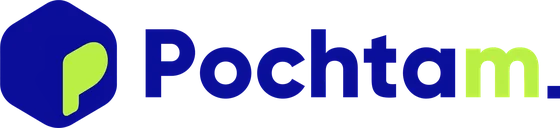
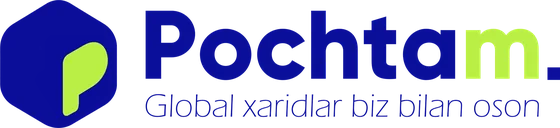
Shior tanishuv ekranidagi lokapga qaytarildi
So'z-belgi ostidagi "Global xaridlar biz bilan oson" o'z joyiga qaytdi:
belgi endi butun ustunning (so'z + shior) markaziga tenglashadi.
Shior so'z bilan bir masshtabda, oradagi masofa TAG_GAP_SHARE da — so'z
balandligiga bog'langan, ya'ni lokap qaysi o'lchamda chiqsa ham nisbat
saqlanadi.

Sarlavhadagi brand.webp avvalgidek shiorsiz: 36 px balandlikda shior
harflari 4 px ga tushib o'qilmay qoladi. Tanishuv ekranida esa lokap 240 px
kenglikda — shior ~10 px, eski lokapdagidan (~7 px) yaxshiroq o'qiladi.

Claude-Session: https://claude.ai/code/session_013YY2HjPmapjsnxB9N1S87s

Changed region(s): [[0.2429, 0.0625, 1.0, 0.9375]]

diff --git a/Xarid Yordamchisi v2.dc.html b/Xarid Yordamchisi v2.dc.html
@@ -490,7 +490,7 @@
 
   <sc-if value="{{ sOnboard }}" hint-placeholder-val="{{ false }}">
     <div style="padding-top:30px;display:flex;flex-direction:column;gap:24px">
-      <img src="icons/brand-full.webp" alt="Pochtam" width="240" height="55" style="width:240px;height:55px;object-fit:contain;align-self:flex-start">
+      <img src="icons/brand-full.webp" alt="Pochtam — global xaridlar biz bilan oson" width="240" height="55" style="width:240px;height:55px;object-fit:contain;align-self:flex-start">
       <div style="height:7px;border-radius:4px;background:repeating-linear-gradient(-45deg,#C8102E 0 9px,#F1F1F8 9px 18px,#1B4D8F 18px 27px,#F1F1F8 27px 36px)"></div>
       <div style="display:flex;flex-direction:column;gap:10px">
         <div style="font-family:'Onest','XY Flags','Noto Color Emoji',system-ui,sans-serif;font-size:22px;letter-spacing:-.025em;font-weight:800;color:#131429;line-height:1.2">Tilni tanlang</div>

diff --git a/index.html b/index.html
@@ -491,7 +491,7 @@
 
   <sc-if value="{{ sOnboard }}" hint-placeholder-val="{{ false }}">
     <div style="padding-top:30px;display:flex;flex-direction:column;gap:24px">
-      <img src="icons/brand-full.webp" alt="Pochtam" width="240" height="55" style="width:240px;height:55px;object-fit:contain;align-self:flex-start">
+      <img src="icons/brand-full.webp" alt="Pochtam — global xaridlar biz bilan oson" width="240" height="55" style="width:240px;height:55px;object-fit:contain;align-self:flex-start">
       <div style="height:7px;border-radius:4px;background:repeating-linear-gradient(-45deg,#C8102E 0 9px,#F1F1F8 9px 18px,#1B4D8F 18px 27px,#F1F1F8 27px 36px)"></div>
       <div style="display:flex;flex-direction:column;gap:10px">
         <div style="font-family:'Onest','XY Flags','Noto Color Emoji',system-ui,sans-serif;font-size:22px;letter-spacing:-.025em;font-weight:800;color:#131429;line-height:1.2">Tilni tanlang</div>

diff --git a/sw.js b/sw.js
@@ -8,7 +8,7 @@
  *     qat'i nazar saqlanadigan keshda qoladi.
  *   - Valyuta kursi kabi API so'rovlari keshlanmaydi.
  */
-const VERSION = '9a538a60abc2';
+const VERSION = '10710bbb703a';
 const CACHE = 'xarid-' + VERSION;
 /* Logotiplar keshi ilova versiyasiga bog'lanmaydi: yangilanish chiqqanda
    ular qaytadan yuklanmaydi. */

diff --git a/tools/brand-logo.py b/tools/brand-logo.py
@@ -7,8 +7,8 @@ bo'laklardan brend introsi ham yig'iladi, ya'ni logotip va animatsiya bitta
 manbadan chiqadi va hech qachon bir-biridan uzoqlashmaydi.
 
 Natija:
-  icons/brand.webp          lokap — sarlavha uchun (96 px balandlikda)
-  icons/brand-full.webp     lokap — tanishuv ekrani uchun (560 px kenglikda)
+  icons/brand.webp          lokap — sarlavha uchun (96 px balandlikda, shiorsiz)
+  icons/brand-full.webp     to'liq lokap — tanishuv ekrani uchun (560 px kenglikda)
   icons/icon-192.png        ilova ikonkasi (PWA)
   icons/apple-touch-icon.png iOS uchun
 
@@ -36,6 +36,7 @@ WORD_X0, WORD_X1, WORD_H = 897, 2619, 288
 # Lokapning nisbatlari — berilgan logotipdan o'lchab olingan.
 WORD_SHARE = 0.543  # so'z-belgi balandligi belgi balandligiga nisbatan
 GAP_SHARE = 0.243   # belgi bilan so'z orasi belgi kengligiga nisbatan
+TAG_GAP_SHARE = 0.199  # so'z bilan shior orasi so'z balandligiga nisbatan
 
 WORD_PX = 96       # sarlavha lokapi: 36px ekranda, ~2.7x zichlikda
 FULL_W = 560       # to'liq lokap: 240px ekranda, ~2.3x zichlikda
@@ -59,15 +60,31 @@ def word():
     return im
 
 
-def lockup():
-    """Belgi va so'z-belgi — yonma-yon, markazi bir chiziqda."""
+def lockup(tagline=False):
+    """Belgi va so'z-belgi — yonma-yon, markazi bir chiziqda.
+
+    tagline=True bo'lsa so'z ostiga shior qo'shiladi va belgi butun
+    ustunning (so'z + shior) markaziga tenglashadi. Sarlavhada shior yo'q:
+    36 px balandlikdagi lokapda uning harflari 4 px ga tushib qolardi.
+    """
     m, w = mark(), word()
     wh = round(m.height * WORD_SHARE)
-    w = w.resize((round(w.width * wh / w.height), wh), Image.LANCZOS)
+    k = wh / w.height
+    w = w.resize((round(w.width * k), wh), Image.LANCZOS)
+
+    text = w
+    if tagline:
+        t = Image.open(SRC / 'tagline.png').convert('RGBA')
+        t = t.resize((round(t.width * k), round(t.height * k)), Image.LANCZOS)
+        gap = round(wh * TAG_GAP_SHARE)
+        text = Image.new('RGBA', (max(w.width, t.width), wh + gap + t.height), (0, 0, 0, 0))
+        text.alpha_composite(w, (0, 0))
+        text.alpha_composite(t, (0, wh + gap))
+
     gap = round(m.width * GAP_SHARE)
-    im = Image.new('RGBA', (m.width + gap + w.width, m.height), (0, 0, 0, 0))
+    im = Image.new('RGBA', (m.width + gap + text.width, m.height), (0, 0, 0, 0))
     im.alpha_composite(m, (0, 0))
-    im.alpha_composite(w, (m.width + gap, (m.height - w.height) // 2))
+    im.alpha_composite(text, (m.width + gap, (m.height - text.height) // 2))
     return im
 
 
@@ -95,16 +112,15 @@ def icon(m, size):
 
 def main():
     check = '--check' in sys.argv
-    missing = [n for n in ['hex.png', 'p.png'] + [f'{g[0]}.png' for g in GLYPHS]
-               if not (SRC / n).exists()]
+    missing = [n for n in ['hex.png', 'p.png', 'tagline.png']
+               + [f'{g[0]}.png' for g in GLYPHS] if not (SRC / n).exists()]
     if missing:
         print(f' XATO  {SRC} da yo\'q: {", ".join(missing)}')
         return 1
 
-    lock = lockup()
     made = [
-        ('brand.webp', to_h(lock, WORD_PX)),
-        ('brand-full.webp', to_w(lock, FULL_W)),
+        ('brand.webp', to_h(lockup(), WORD_PX)),
+        ('brand-full.webp', to_w(lockup(tagline=True), FULL_W)),
         ('icon-192.png', icon(mark(), ICON)),
         ('apple-touch-icon.png', icon(mark(), APPLE)),
     ]

diff --git a/README.md b/README.md
@@ -110,17 +110,18 @@ yig'ib to'rt faylni yasaydi:
 
 | Fayl | Qayerda |
 | --- | --- |
-| `icons/brand.webp` | bosh ekran sarlavhasi — 36 px balandlikda |
-| `icons/brand-full.webp` | tanishuv ekrani — 240 px kenglikda |
+| `icons/brand.webp` | bosh ekran sarlavhasi — 36 px balandlikda, shiorsiz |
+| `icons/brand-full.webp` | tanishuv ekrani — 240 px kenglikda, shior bilan |
 | `icons/icon-192.png` | PWA ikonkasi |
 | `icons/apple-touch-icon.png` | iOS ikonkasi |
 
-Lokapda shior yo'q: 36 px balandlikda uning harflari 4 px ga tushib
-o'qilmay qolardi, tanishuv ekranida esa u pastdagi sarlavhani takrorlaydi.
-Nisbatlar `WORD_SHARE` va `GAP_SHARE` da — belgi balandligi va kengligiga
-bog'langan, shuning uchun o'lcham o'zgarsa ham lokap buzilmaydi. Ikonkalar
-oq fonda — shaffof bo'lsa tizim ularni qora bilan to'ldiradi va ko'k belgi
-yo'qoladi.
+Sarlavhada shior yo'q: 36 px balandlikdagi lokapda uning harflari 4 px ga
+tushib o'qilmay qolardi. Tanishuv ekranida joy yetarli — shior so'z ostida
+turadi va belgi butun ustunning markaziga tenglashadi. Nisbatlar
+`WORD_SHARE`, `GAP_SHARE` va `TAG_GAP_SHARE` da — belgi va so'z o'lchamiga
+bog'langan, shuning uchun lokap qaysi o'lchamda chiqsa ham buzilmaydi.
+Ikonkalar oq fonda — shaffof bo'lsa tizim ularni qora bilan to'ldiradi va
+ko'k belgi yo'qoladi.
 
 ## Dizayn tizimi
 
